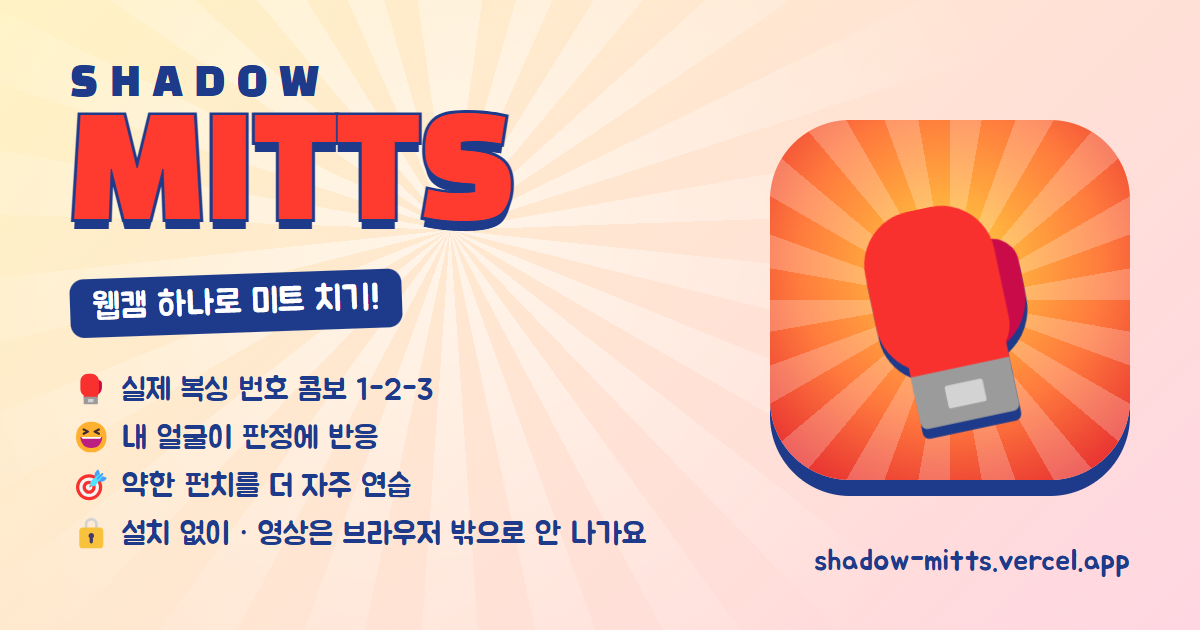
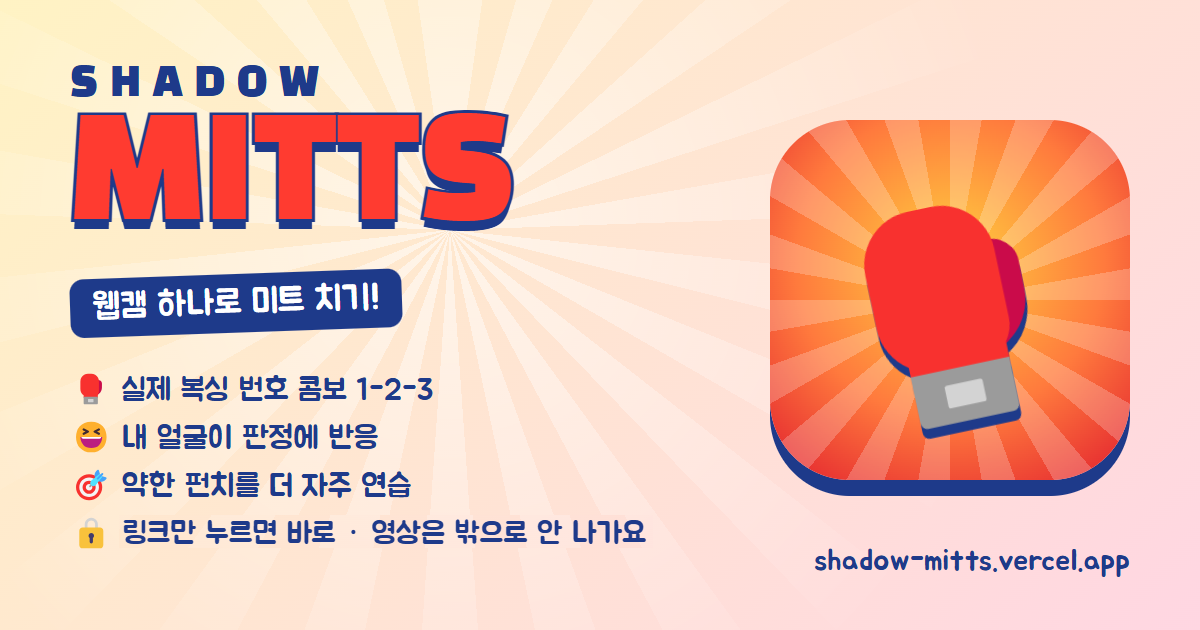
링크 미리보기·설명: "설치 없이" → "링크만 누르면 바로" (앱 설치(PWA)도 되는데 헷갈려서)

Changed region(s): [[0.0925, 0.8143, 0.5242, 0.8746]]

diff --git a/index.html b/index.html
@@ -4,12 +4,12 @@
     <meta charset="UTF-8" />
     <meta name="viewport" content="width=device-width, initial-scale=1.0" />
     <title>Shadow Mitts</title>
-    <meta name="description" content="웹캠 하나로 치는 복싱 미트 게임. 실제 복싱 번호 콤보(1-2-3), 판정마다 반응하는 내 얼굴, 약한 펀치 집중 연습. 설치 없이 링크로, 영상은 브라우저 밖으로 나가지 않아요." />
+    <meta name="description" content="웹캠 하나로 치는 복싱 미트 게임. 실제 복싱 번호 콤보(1-2-3), 판정마다 반응하는 내 얼굴, 약한 펀치 집중 연습. 링크만 누르면 바로(앱으로 설치도 돼요), 영상은 브라우저 밖으로 나가지 않아요." />
     <!-- link previews (KakaoTalk, Discord, Slack, X …) -->
     <meta property="og:type" content="website" />
     <meta property="og:site_name" content="Shadow Mitts" />
     <meta property="og:title" content="Shadow Mitts — 웹캠 하나로 미트 치기!" />
-    <meta property="og:description" content="웹캠 하나로 치는 복싱 미트 게임. 실제 복싱 번호 콤보(1-2-3), 판정마다 반응하는 내 얼굴, 약한 펀치 집중 연습. 설치 없이 링크로, 영상은 브라우저 밖으로 나가지 않아요." />
+    <meta property="og:description" content="웹캠 하나로 치는 복싱 미트 게임. 실제 복싱 번호 콤보(1-2-3), 판정마다 반응하는 내 얼굴, 약한 펀치 집중 연습. 링크만 누르면 바로(앱으로 설치도 돼요), 영상은 브라우저 밖으로 나가지 않아요." />
     <meta property="og:url" content="https://shadow-mitts.vercel.app/" />
     <meta property="og:image" content="https://shadow-mitts.vercel.app/og.png" />
     <meta property="og:image:width" content="1200" />

diff --git a/README.md b/README.md
@@ -12,7 +12,7 @@
 - 🥊 **실제 복싱 번호 콤보** — "1-2-3"처럼 트레이너가 부르는 번호대로, 키보드·센서 없이 웹캠 하나로 쳐요
 - 😆 **내 얼굴이 판정에 반응** — 사진 한 장으로 PERFECT엔 웃고 MISS엔 시무룩한 내 얼굴 (브라우저 안에서만 처리)
 - 🎯 **약점 집중 연습** — 자주 틀리는 펀치를 기억해 다음 판에 더 자주 내요
-- 🔒 **설치 없이, 영상은 밖으로 안 나감** — 링크만 열면 되고, 앱처럼 설치(PWA)도 돼요
+- 🔒 **링크만 누르면 바로, 영상은 밖으로 안 나감** — 앱처럼 설치(PWA)도 돼요
 
 | 메뉴 | 게임 화면 |
 |---|---|
@@ -49,7 +49,7 @@
 
 ## 빠른 시작
 
-**바로 하기:** [shadow-mitts.vercel.app](https://shadow-mitts.vercel.app) 을 Chrome·Edge로 열기 (웹캠 필요, 설치 없이 바로)
+**바로 하기:** [shadow-mitts.vercel.app](https://shadow-mitts.vercel.app) 을 Chrome·Edge로 열기 (웹캠 필요, 링크만 누르면 바로 — 앱으로 설치도 돼요)
 
 1. **카메라 켜기** → 처음 방문하면 체크리스트가 안내해요. 1.5\~2m 뒤에서 **머리부터 허리까지** 화면에 보이게 서기
 2. 스탠스(오소독스/사우스포)와 난이도 선택 · (선택) 😆 리액션 얼굴 찍기
